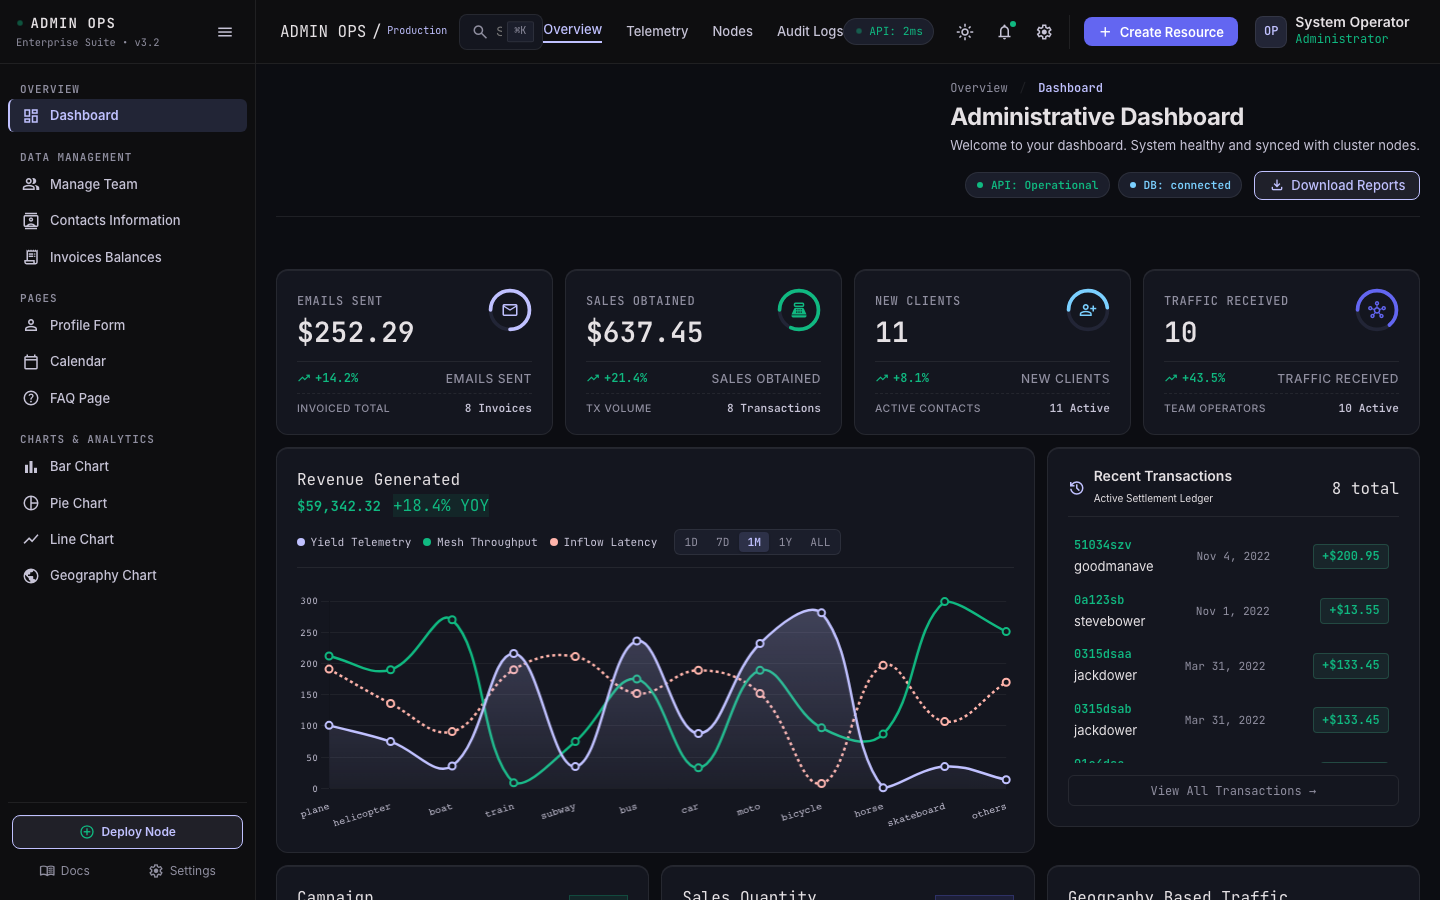
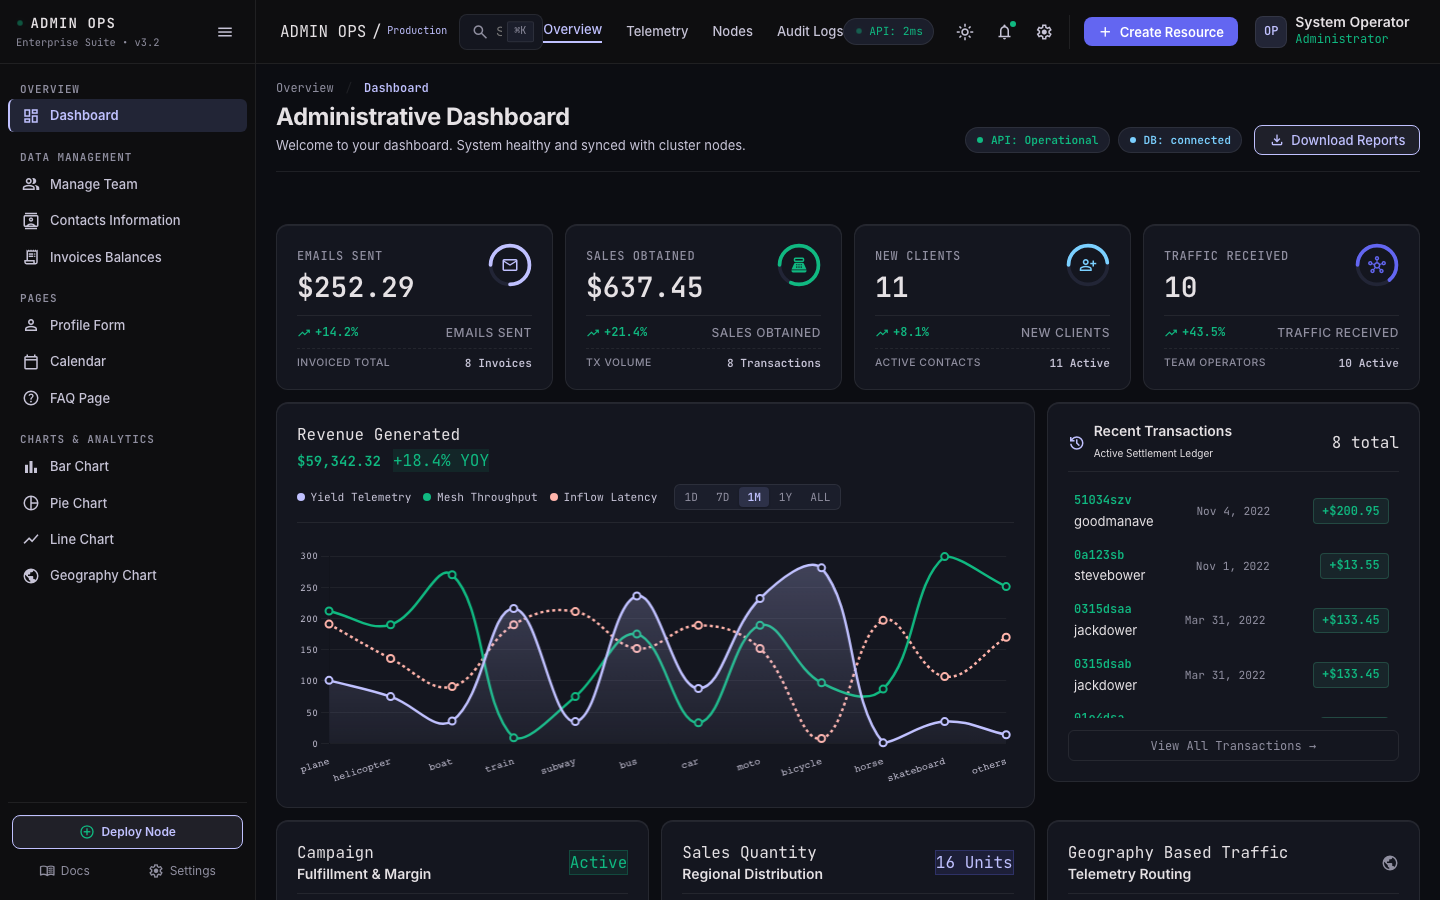
fix(ui): align dashboard scene header to left edge with flex-direction row

diff --git a/modern-admin-dashboard/web/src/views/dashboard-view.js b/modern-admin-dashboard/web/src/views/dashboard-view.js
@@ -80,7 +80,7 @@ export class DashboardView {
     this.element.setAttribute("aria-labelledby", "dashboard-title");
 
     this.element.innerHTML = `
-      <header class="scene-header bento-header" style="display: flex; justify-content: space-between; align-items: flex-end; padding-bottom: 1rem; margin-bottom: 1.25rem; border-bottom: 1px solid var(--border-subtle); flex-wrap: wrap; gap: 1rem;">
+      <header class="scene-header bento-header" style="display: flex; flex-direction: row; justify-content: space-between; align-items: flex-end; width: 100%; padding-bottom: 1rem; margin-bottom: 1.25rem; border-bottom: 1px solid var(--border-subtle); flex-wrap: wrap; gap: 1rem;">
         <div class="scene-header-left">
           <nav class="scene-breadcrumbs" aria-label="Breadcrumb" style="font-size: 0.75rem; color: var(--text-muted); margin-bottom: 0.25rem; font-family: var(--font-mono);">
             <span class="breadcrumb-item">Overview</span>

diff --git a/modern-admin-dashboard/web/src/styles/main.css b/modern-admin-dashboard/web/src/styles/main.css
@@ -1227,9 +1227,24 @@ app-sidebar {
 
 .scene-header {
   display: flex;
+  flex-direction: row;
   justify-content: space-between;
   align-items: flex-start;
   margin-bottom: 0.75rem;
+  width: 100%;
+}
+
+.bento-header {
+  display: flex;
+  flex-direction: row;
+  justify-content: space-between;
+  align-items: flex-end;
+  width: 100%;
+  padding-bottom: 1rem;
+  margin-bottom: 1.25rem;
+  border-bottom: 1px solid var(--border-subtle);
+  flex-wrap: wrap;
+  gap: 1rem;
 }
 
 .scene-header-left {
